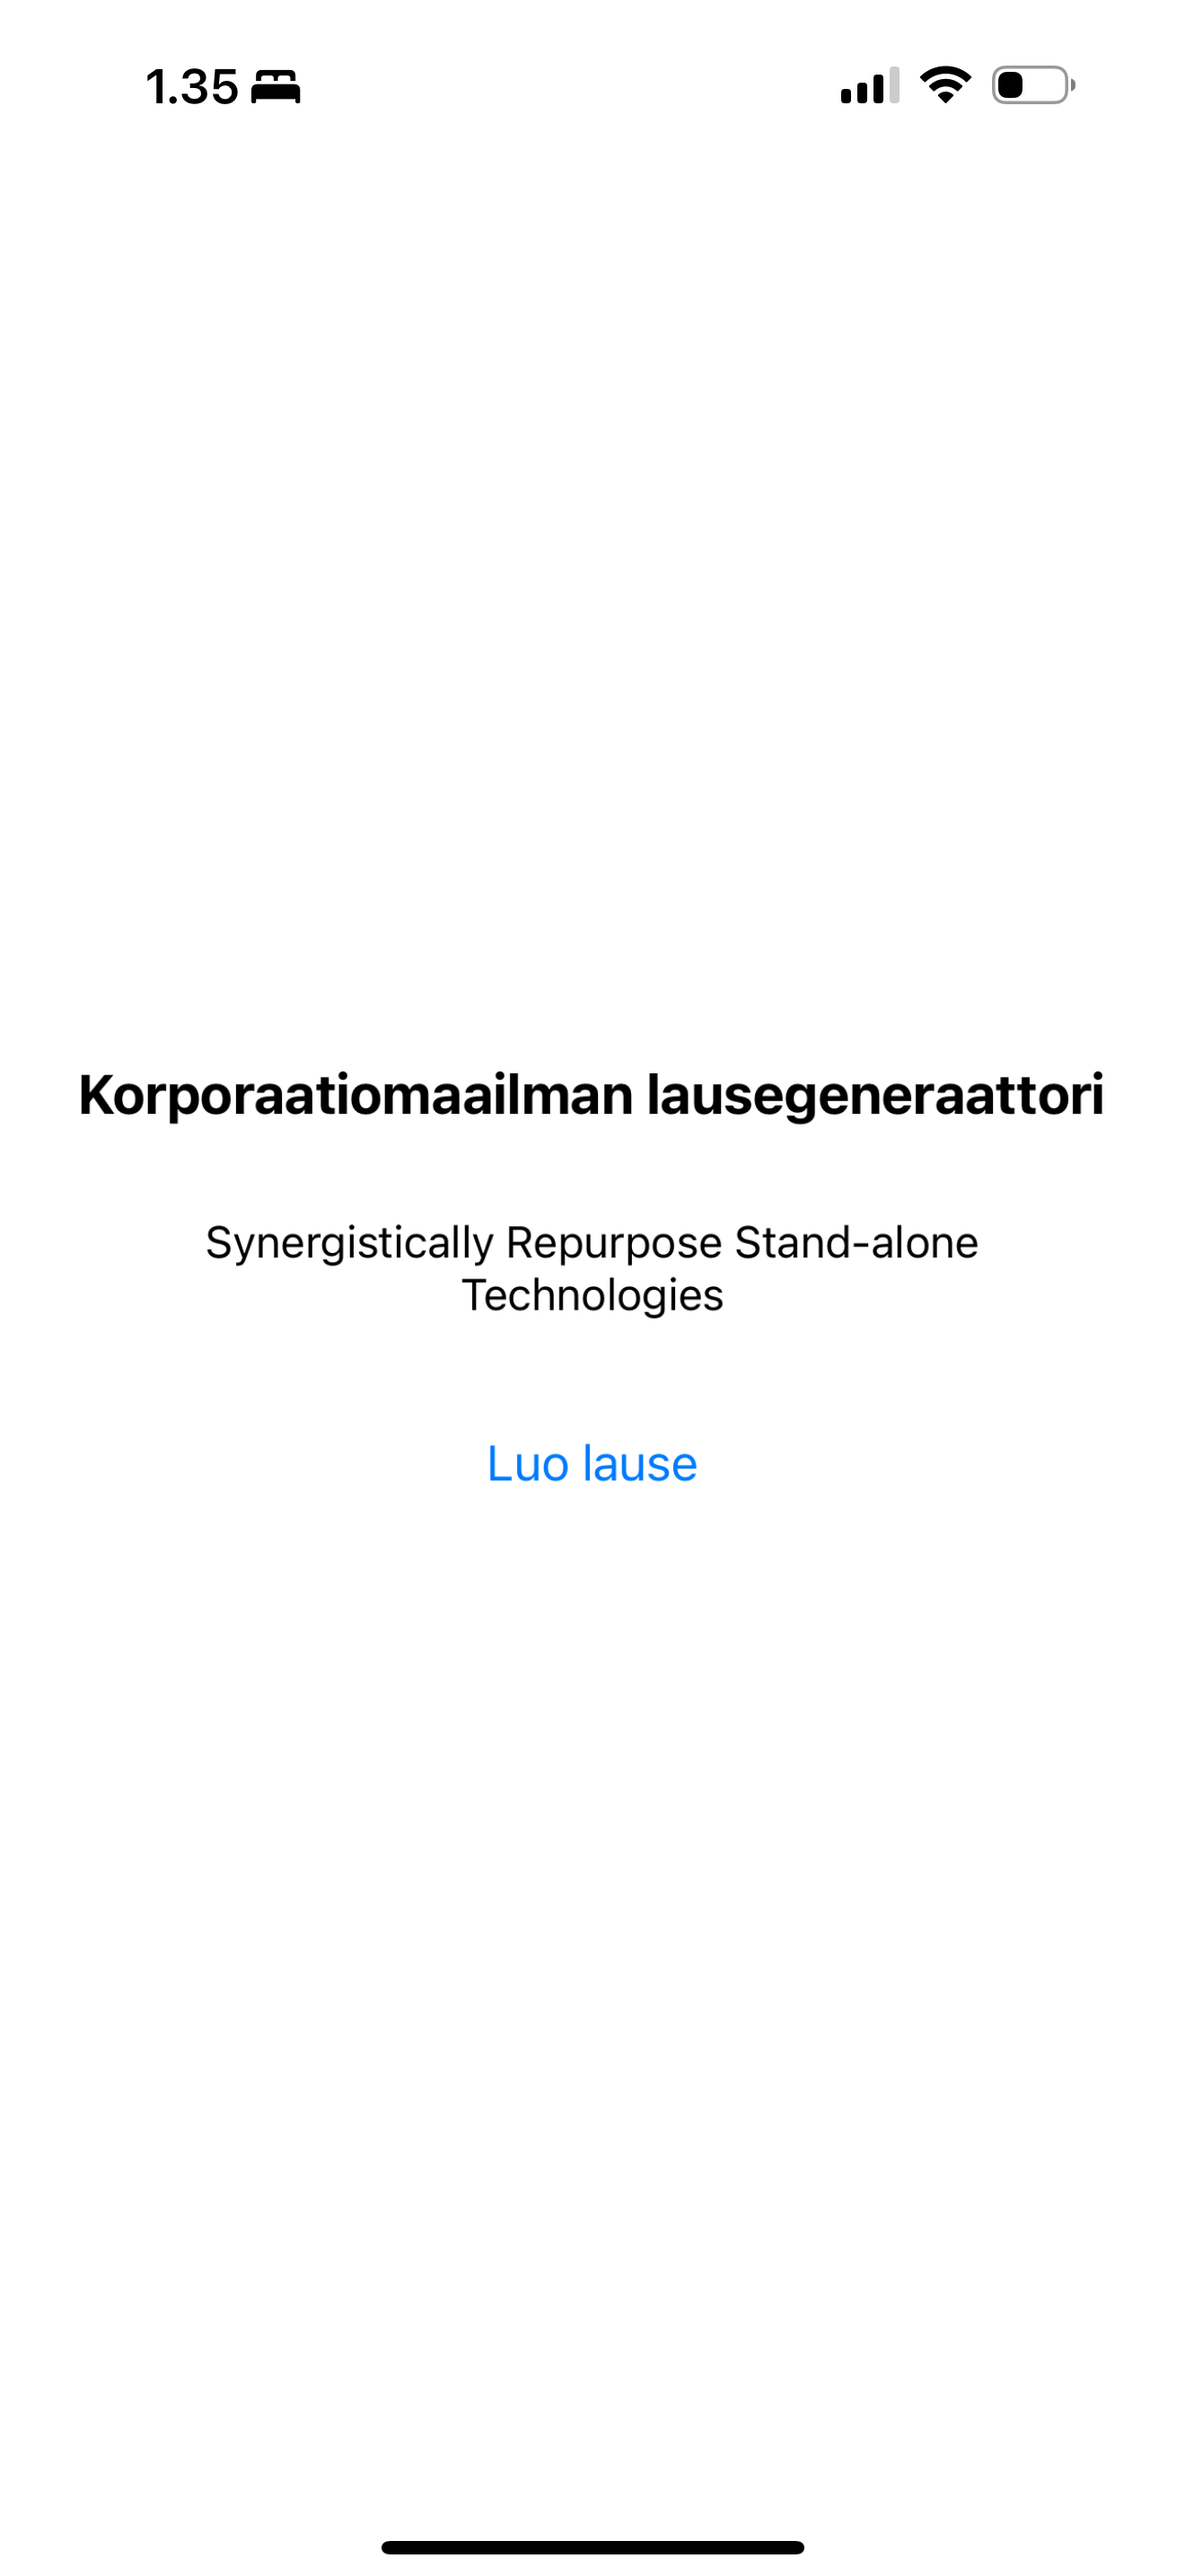
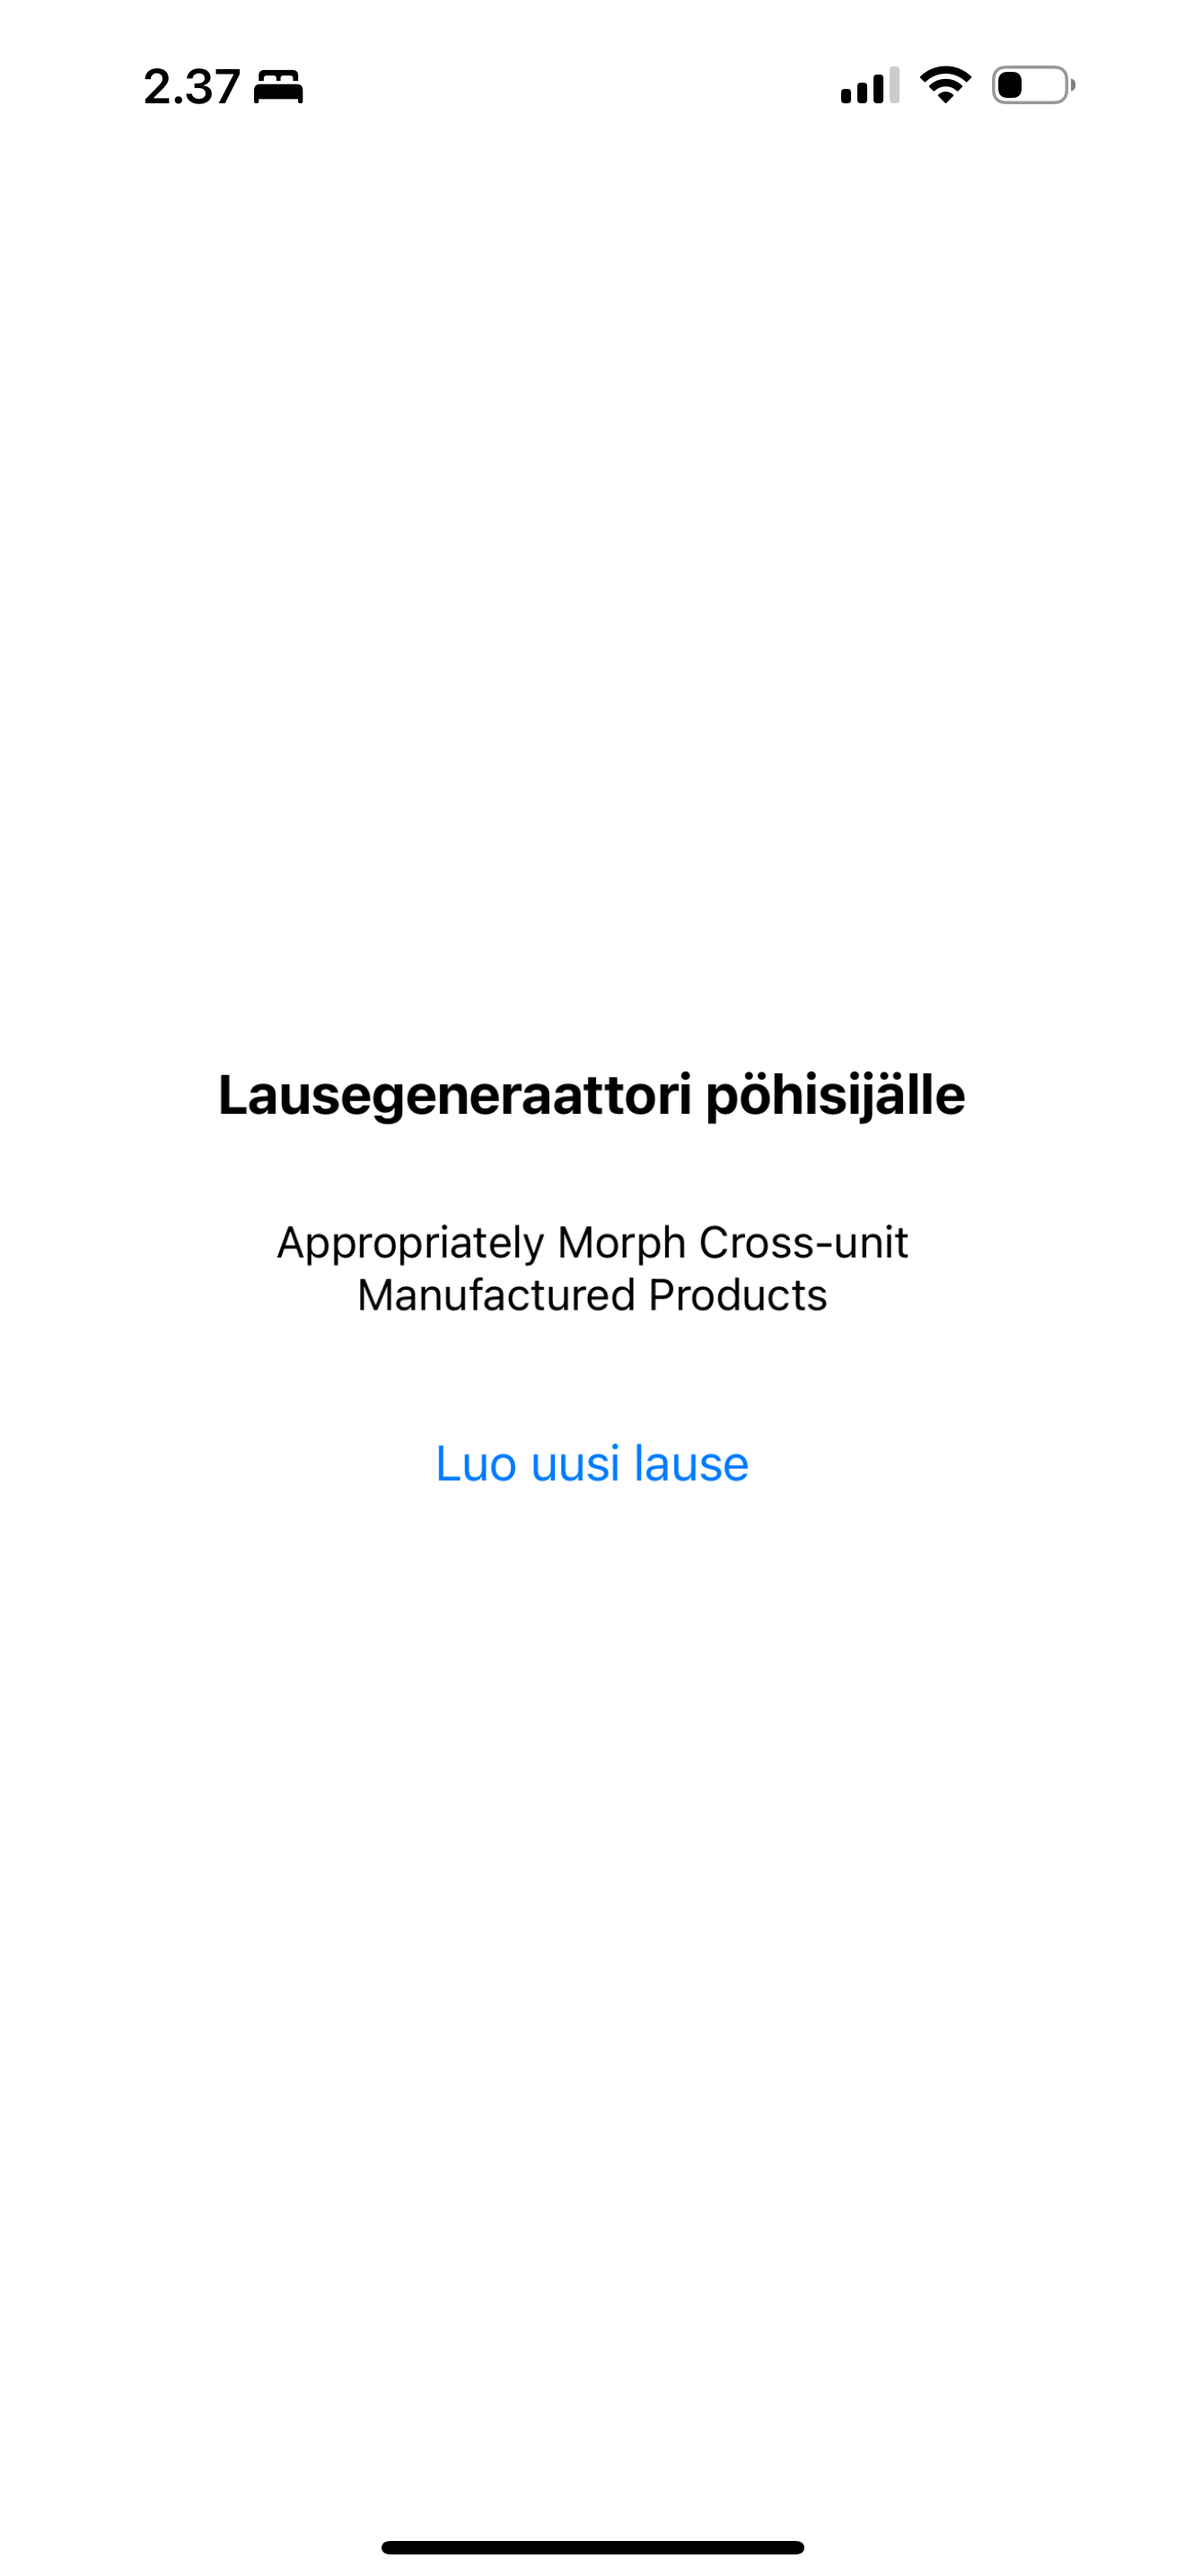
Viikkotehtava valmis

diff --git a/App.js b/App.js
@@ -1,25 +1,21 @@
-import { StatusBar } from 'expo-status-bar';
-import { Button, StyleSheet, Text, View } from 'react-native';
-import React, { useState } from 'react';
-import { getApiData } from './hooks/getData'
-
-const url = 'https://corporatebs-generator.sameerkumar.website'
+import { StatusBar } from 'expo-status-bar'
+import { Button, StyleSheet, Text, View } from 'react-native'
+import useApiData from './hooks/getData'
 
 export default function App() {
-  const [sentence, setSentence] = useState('Luo lause painamalla nappia')
+  const { data, loading, error, getApiData } = useApiData()
 
-  const handleClick = () => {
-    getApiData(url)
-      .then(data => {
-        setSentence(data.phrase)
-      })
-  }
+  const handlePress = () => {
+    getApiData()
+  };
 
   return (
     <View style={styles.container}>
-      <Text style={styles.header}>Korporaatiomaailman lausegeneraattori</Text>
-      <Text style={styles.text}>{sentence}</Text>
-      <Button title='Luo lause' onPress={handleClick}></Button>
+      <Text style={styles.header}>Lausegeneraattori pöhisijälle</Text>
+      {loading && <Text style={styles.text}>Ladataan...</Text>}
+      {error && <Text style={styles.text}>{error}</Text>}
+      {!loading && data && <Text style={styles.text}>{data.phrase}</Text>}
+      <Button title="Luo uusi lause" onPress={handlePress}></Button>
       <StatusBar style="auto" />
     </View>
   );
@@ -35,12 +31,12 @@ const styles = StyleSheet.create({
   header: {
     marginBottom: 32,
     fontSize: 20,
-    fontWeight: 'bold'
+    fontWeight: 'bold',
   },
   text: {
     marginBottom: 32,
     paddingHorizontal: 48,
     fontSize: 16,
     textAlign: 'center',
-  }
+  },
 });

diff --git a/hooks/getData.js b/hooks/getData.js
@@ -1,15 +1,35 @@
-const getApiData = async (url) => {
-    try {
-        const response = await fetch(url);
-        if (response.ok) {
-            const json = await response.json();
-            return json;
-        } else {
-            throw new Error('Virhe haettaessa dataa');
-        }
-    } catch (error) {
-        throw new Error(error.message);
-    }
-};
+import { useState, useEffect } from 'react'
 
-export { getApiData };
+const url = 'https://corporatebs-generator.sameerkumar.website'
+
+const useApiData = () => {
+    const [data, setData] = useState(null)
+    const [loading, setLoading] = useState(false)
+    const [error, setError] = useState(null)
+
+    useEffect(() => {
+        getApiData()
+    }, [])
+
+    const getApiData = async () => {
+        setLoading(true)
+        try {
+            const response = await fetch(url)
+            if (response.ok) {
+                const json = await response.json()
+                setData(json)
+                setError(null)
+            } else {
+                setError('Haku epäonnistui')
+                setData(null)
+            }
+        } catch (error) {
+            setError('Virhe: ' + error.message)
+            setData(null)
+        }
+        setLoading(false)
+    }
+    return { data, loading, error, getApiData }
+}
+
+export default useApiData
